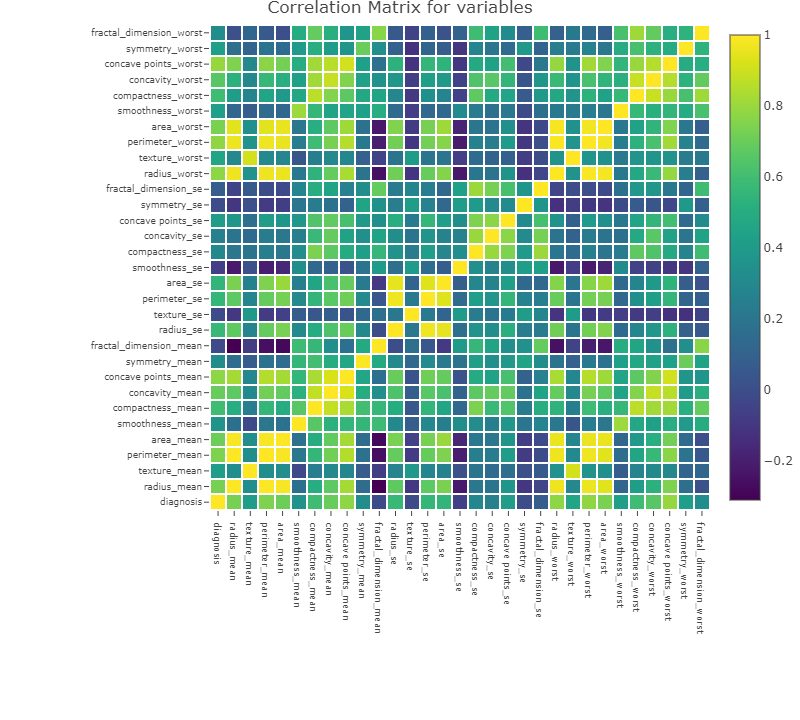
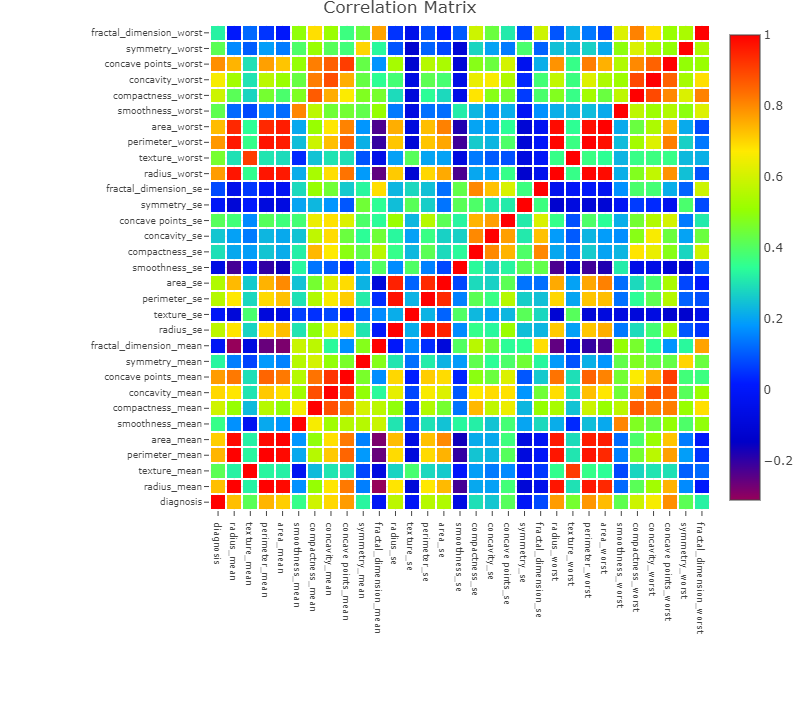
image and readme updates

diff --git a/EDA (Explanatory Data Analysis)/README.md b/EDA (Explanatory Data Analysis)/README.md
@@ -230,10 +230,10 @@ trace = go.Heatmap(z = corr_array,
                    y = matrix_cols,
                    xgap = 2,
                    ygap = 2,
-                   colorscale='Viridis',
+                   colorscale='Rainbow',
                    colorbar   = dict() ,
                   )
-layout = go.Layout(dict(title = 'Correlation Matrix for variables',
+layout = go.Layout(dict(title = 'Correlation Matrix',
                         autosize = False,
                         height  = 720,
                         width   = 800,
